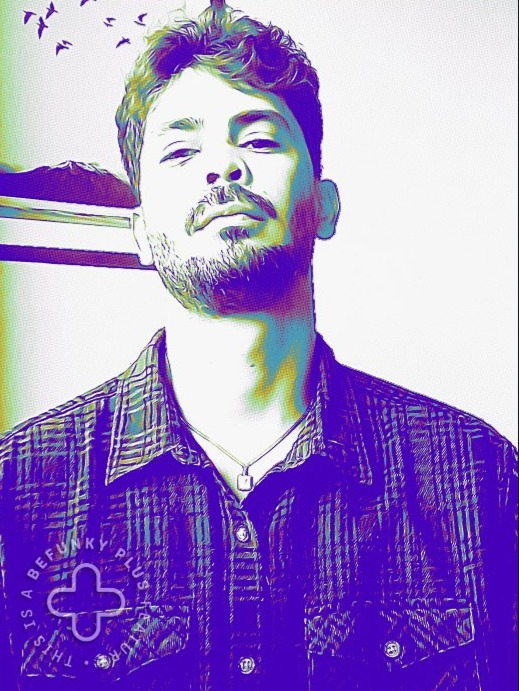
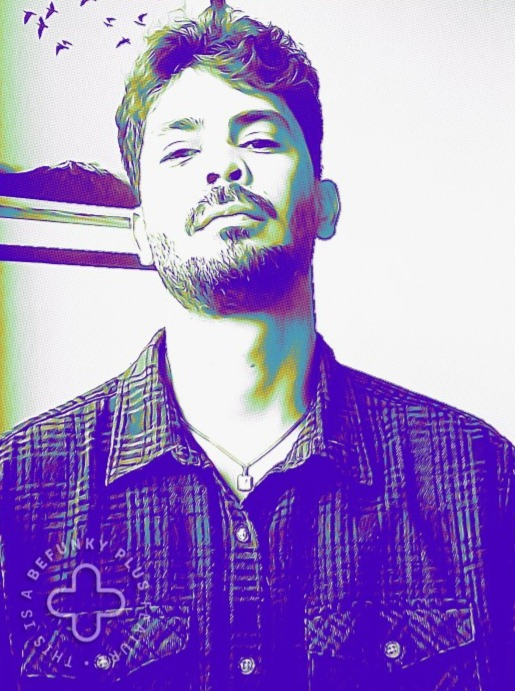
assinaturaComponente

diff --git a/src/app/pages/components/home/home.component.html b/src/app/pages/components/home/home.component.html
@@ -127,13 +127,15 @@
 >
   <div class="hidden md:flex flex-row justify-center px-36">
     <div
-      class=" mt-60 w-auto max-w-[30rem] rounded-md h-auto max-h-[40rem] bg-[repeating-linear-gradient(45deg,_#525252_0px,_#525252_3px,_transparent_3px,_transparent_15px)] dark:bg-[repeating-linear-gradient(45deg,_#ffffff_0px,_#ffffff_3px,_transparent_3px,_transparent_15px)]"
+      class="mt-60  w-auto max-w-[30rem] rounded-md h-auto max-h-[40rem] bg-[repeating-linear-gradient(45deg,_#525252_0px,_#525252_3px,_transparent_3px,_transparent_15px)] dark:bg-[repeating-linear-gradient(45deg,_#ffffff_0px,_#ffffff_3px,_transparent_3px,_transparent_15px)]"
     >
-      <img
-        class="rounded-lg w-[40rem] mask-image-radial ml-[6rem] pt-24 mb-10"
-        [src]="me1"
-        alt="Minha foto de perfil"
-      />
+    <img
+    class="rounded-lg w-[40rem] mask-image-radial ml-[6rem] pt-24 mb-10 transition-opacity duration-500 ease-in-out"
+    [src]="!isHovered ? me1 : me2"
+    alt="Minha foto de perfil"
+    (mouseenter)="isHovered = true"
+    (mouseleave)="isHovered = false"
+  />
     </div>
 
     <div class="font-bitter flex flex-col mt-72 ml-32">
@@ -141,59 +143,65 @@
       <p class="text-9xl">name is <code class="file:font-bold">Diego</code></p>
       <p class="text-2xl pt-5">
         I'm an
-        <code class="font-extrabold bg-gradient-to-l from-blue-300 via-pink-100 to-purple-400 bg-clip-text text-transparent ">independent creative developer</code> from
+        <code
+          class="font-extrabold bg-gradient-to-l from-blue-300 via-pink-100 to-purple-400 bg-clip-text text-transparent"
+          >independent creative developer</code
+        >
+        from
       </p>
       <p class="text-2xl">Salvador, Bahia, Brazil.</p>
-      <div class="h-[1px] mt-10 w-full max-w-4xl bg-neutral-800 dark:bg-neutral-100"></div>
+      <div
+        class="h-[1px] mt-10 w-full max-w-4xl bg-neutral-800 dark:bg-neutral-100"
+      ></div>
 
-      <div class=" flex flex-row mt-10 items-center">
-        <button class="icon-btn justify-start px-3 py-3 text-lg font-poppins font-bold rounded-md bg-neutral-600  dark:bg-neutral-100 "><span class="bg-gradient-to-l from-blue-300 via-purple-300 to-purple-500 bg-clip-text text-transparent">Download CV</span></button>
+      <div class="flex flex-row mt-10 items-center">
+        <button
+          class="icon-btn justify-start px-3 py-3 text-lg font-poppins font-bold rounded-md bg-neutral-600 dark:bg-neutral-100"
+        >
+          <span
+            class="bg-gradient-to-l from-blue-300 via-purple-300 to-purple-500 bg-clip-text text-transparent"
+            >Download CV</span
+          >
+        </button>
 
-        <div class="flex flex-1  gap-5 justify-end">
-
+        <div class="flex flex-1 gap-5 justify-end">
           <div #btnGit>
-            <Button
-              class=" text-[#7a7a7a] rounded-md  font-semibold icon-btn"
-            >
+            <Button class="text-[#7a7a7a] rounded-md font-semibold icon-btn">
               <a href="https://github.com/BonfimDeveloper" target="_blank">
                 <fa-icon
                   [icon]="faGithub"
-                  class="text-3xl hover:text-white "
+                  class="text-3xl hover:text-black dark:hover:text-white"
                 ></fa-icon> </a
             ></Button>
           </div>
 
           <div #btnLinkedin>
-            <Button
-              class="text-[#7a7a7a] rounded-md  font-semibold icon-btn"
-            >
+            <Button class="text-[#7a7a7a] rounded-md font-semibold icon-btn">
               <a
                 href="https://www.linkedin.com/in/diego-bonfim-8b24a421a/"
                 target="_blank"
               >
                 <fa-icon
                   [icon]="faLinkedin"
-                  class="text-3xl hover:text-white"
+                  class="text-3xl hover:text-black dark:hover:text-white"
                 ></fa-icon> </a
             ></Button>
           </div>
 
           <div #btnWhatsApp>
-            <Button (click)="openWhatsApp()"
-              class="text-[#7a7a7a] rounded-md  font-semibold icon-btn"
+            <Button
+              (click)="openWhatsApp()"
+              class="text-[#7a7a7a] rounded-md font-semibold icon-btn"
             >
-                <fa-icon
-                  [icon]="faWhatsapp"
-                  class="text-3xl hover:text-white"
-                ></fa-icon>
+              <fa-icon
+                [icon]="faWhatsapp"
+                class="text-3xl hover:text-black dark:hover:text-white"
+              ></fa-icon>
             </Button>
           </div>
         </div>
-
       </div>
     </div>
-
-
   </div>
 
   <!--###  MOBILE  ###-->
@@ -210,9 +218,7 @@
 
     <div class="font-bitter flex flex-col mt-10 mx-5">
       <p class="text-6xl">Hi, my </p>
-      <p class="text-6xl">
-        name is <code class="file:font-bold">Diego</code>
-      </p>
+      <p class="text-6xl">name is <code class="file:font-bold">Diego</code></p>
       <p class="text-xl">
         I'm an
         <code
@@ -225,21 +231,24 @@
       <p class="text-xl">Salvador, Bahia, Brazil.</p>
     </div>
     <div class="mx-4 flex flex-row justify-around w-auto mt-20 min-gap-2 gap-5">
-      <button class="px-4 py-4 text-lg font-poppins font-bold rounded-md bg-neutral-600  dark:bg-white "><span class="bg-gradient-to-l from-blue-300 via-pink-100 to-purple-400 bg-clip-text text-transparent">Download CV</span></button>
+      <button
+        class="px-4 py-4 text-lg font-poppins font-bold rounded-md bg-neutral-600 dark:bg-white"
+      >
+        <span
+          class="bg-gradient-to-l from-blue-300 via-pink-100 to-purple-400 bg-clip-text text-transparent"
+          >Download CV</span
+        >
+      </button>
 
-      <Button class="  font-poppins font-bold rounded-md "><fa-icon
-        [icon]="faGithub"
-        class="text-4xl text-purple-500"
-      ></fa-icon></Button>
-      <Button class="  font-poppins font-bold rounded-md "><fa-icon
-        [icon]="faLinkedin"
-        class="text-4xl text-blue-500"
-      ></fa-icon></Button>
-      <Button class="  font-poppins font-bold rounded-md "><fa-icon
-        [icon]="faWhatsapp"
-        class="text-4xl text-green-500"
-      ></fa-icon></Button>
-
+      <Button class="font-poppins font-bold rounded-md"
+        ><fa-icon [icon]="faGithub" class="text-4xl text-purple-500"></fa-icon
+      ></Button>
+      <Button class="font-poppins font-bold rounded-md"
+        ><fa-icon [icon]="faLinkedin" class="text-4xl text-blue-500"></fa-icon
+      ></Button>
+      <Button class="font-poppins font-bold rounded-md"
+        ><fa-icon [icon]="faWhatsapp" class="text-4xl text-green-500"></fa-icon
+      ></Button>
     </div>
   </div>
 </div>

diff --git a/src/app/pages/components/home/home.component.ts b/src/app/pages/components/home/home.component.ts
@@ -45,6 +45,8 @@ export class HomeComponent implements OnInit, AfterViewInit {
   imagemPerfil: string = 'assets/images/dev_1.jpg';
   me: string = 'assets/images/me.jpg';
   me1: string = 'assets/images/me1.png';
+  me2: string = 'assets/images/me2.png';
+
   me1mobile: string = 'assets/images/me1mobile.png';
 
   angular: string = 'assets/images/angular.png';
@@ -53,6 +55,8 @@ export class HomeComponent implements OnInit, AfterViewInit {
 
   public chave3: string = '{';
   public chave4: string = '}';
+
+  public isHovered: boolean = false;
 
   constructor(
     private darkModeService: DarkModeService,
